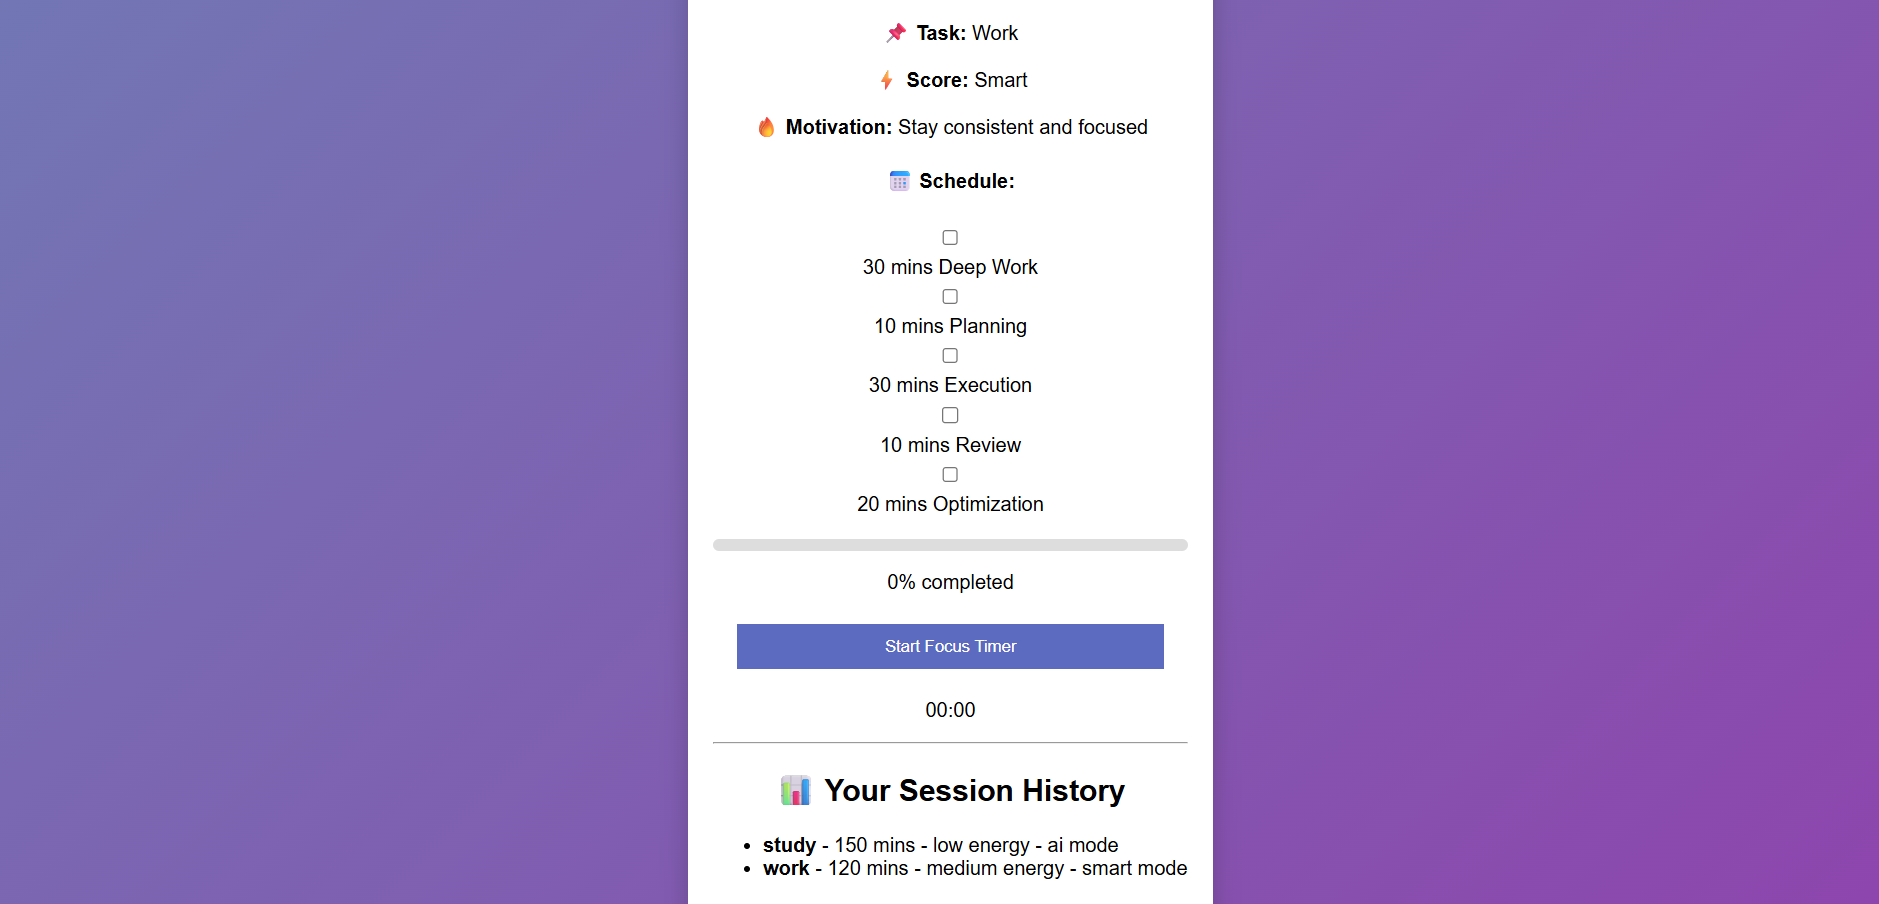
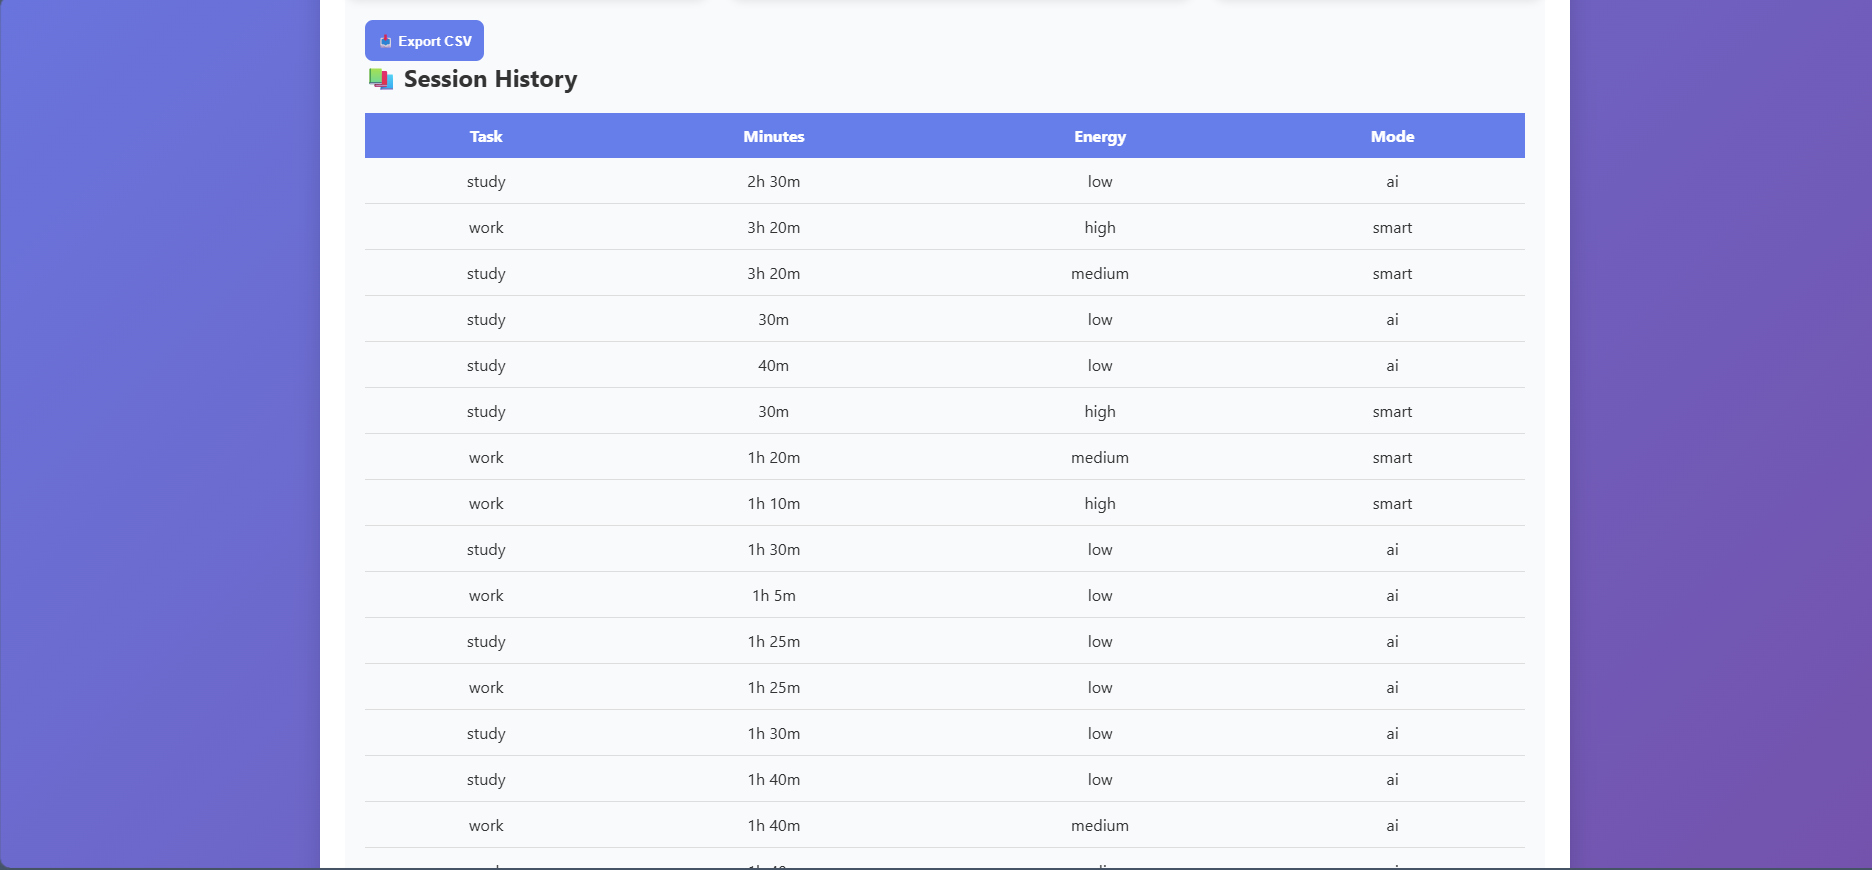
Screenshots added

diff --git a/README.md b/README.md
@@ -68,7 +68,12 @@ https://focusflow-6dz0.onrender.com
 
 ![Analytics](screenshots/history.png)
 
+### Focus Planner
+
+![FocusPlanner](screenshots\focus planner.png)
+
 ---
+
 ## Tech Stack
 
 ### Backend
